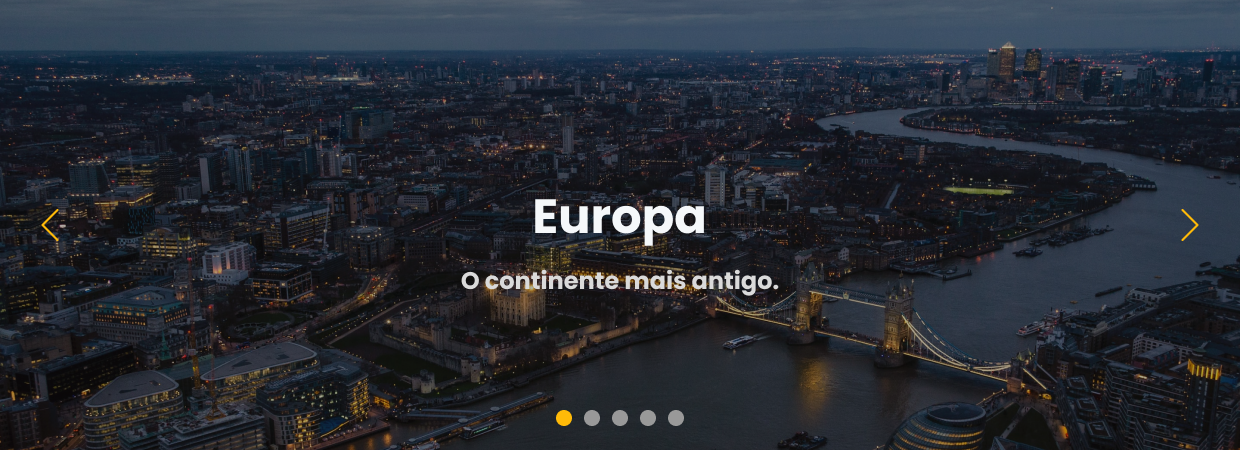
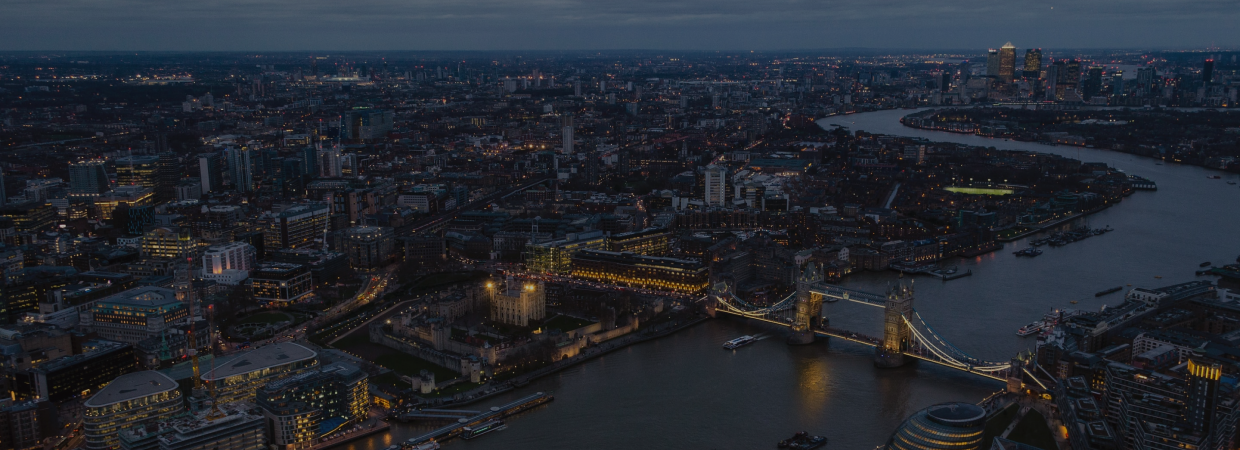
feat: create home page

diff --git a/src/pages/index.tsx b/src/pages/index.tsx
@@ -1,5 +1,109 @@
+import { Box, Center, Divider, Flex, Heading, Image, Text } from "@chakra-ui/react";
+
+import { Header } from "../components/Header";
+import { Slide } from "../components/Slide";
+import { TravelTypes } from "../components/TravelTypes";
+
 export default function Home() {
   return (
-    <h1>Home</h1>
+    <Box>
+      <Header />
+
+      <Box
+        bgImage='url("/images/background.png")'
+        bgPosition='center'
+        bgRepeat='no-repeat'
+        bgSize='cover'
+        height='335'
+      >
+        <Flex
+          maxW='1240'
+          h='100%'
+          mx='auto'
+          px={10}
+          direction='column' 
+          align='flex-start' 
+          justify='center'
+          pos='relative'
+        >
+          <Heading 
+            as='h1'
+            fontWeight='normal'
+            fontSize='4xl'
+            color='gray.50'
+            mb='5'
+          >
+            5 Continentes, <Divider as='br' /> infinitas possibilidades.
+          </Heading>
+          <Text
+            maxW='524'
+            fontSize='xl'
+            color='gray.100'
+          >
+            Chegou a hora de tirar do papel a viagem que você sempre sonhou. 
+          </Text>
+
+          <Image 
+            pos='absolute'
+            right='0'
+            bottom='-35'
+            src='/images/airplane.svg' 
+            alt='Avião' 
+          />
+        </Flex>
+      </Box>
+    
+      <Box
+        maxW='1240'
+        mx='auto'
+        mt={24}
+        mb={10}
+      >
+        <Flex px={10} mb={20} justify='space-between'>
+          <TravelTypes title='vida noturna'>
+            <Image src='/images/icons/cocktail.svg' maxW='85' />
+          </TravelTypes>
+
+          <TravelTypes title='praia'>
+            <Image src='/images/icons/surf.svg' maxW='85' />
+          </TravelTypes>
+
+          <TravelTypes title='moderno'>
+            <Image src='/images/icons/building.svg' maxW='85' />
+          </TravelTypes>
+
+          <TravelTypes title='clássico'>
+            <Image src='/images/icons/museum.svg' maxW='85' />
+          </TravelTypes>
+
+          <TravelTypes title='e mais...'>
+            <Image src='/images/icons/earth.svg' maxW='85' />
+          </TravelTypes>
+        </Flex>
+          
+        <Center w='90px' mx='auto' borderTopWidth='2px' borderColor='gray.600'> 
+          
+        </Center>
+
+        <Box>
+          <Heading 
+            py={14}
+            fontWeight='normal'
+            fontSize='4xl'
+            textAlign='center'
+            lineHeight='3.375rem'
+          >
+            Vamos nessa? <Divider as='br' /> Então escolha seu continente
+          </Heading>
+
+          <Box
+            w='100%'
+            h='450'
+          >
+            <Slide />
+          </Box>
+        </Box>
+      </Box>
+    </Box>
   )
 }
